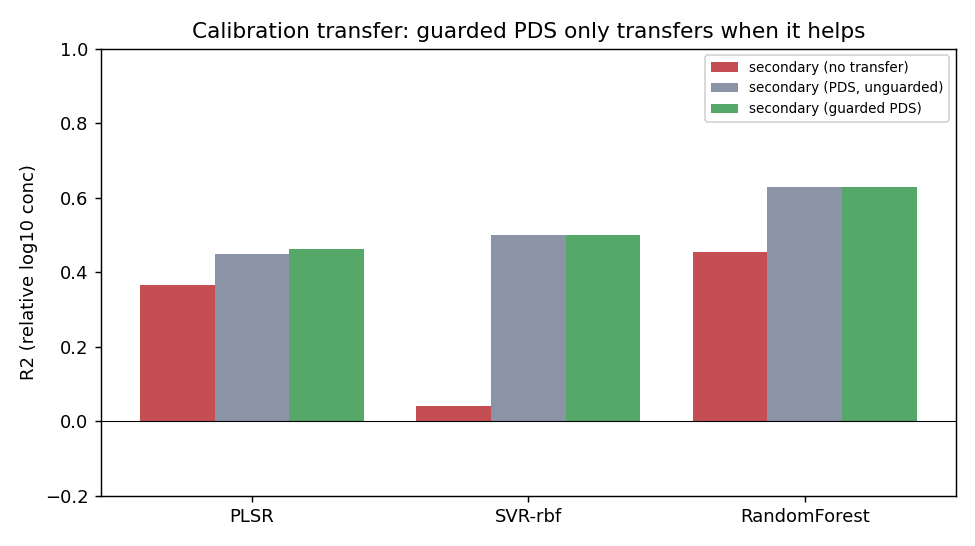
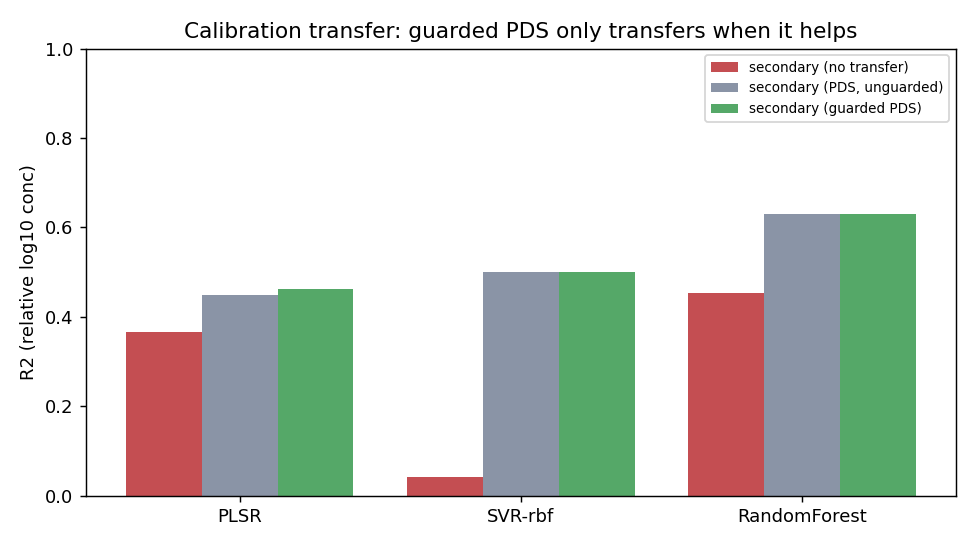
fix(plots): stop quant ensemble label overlap and drop empty negative axis
- quantification_r2.png: long Ensemble(PLSR+SVR+RF+kNN) tick collided with
  SVR-rbf; show Ensemble (full composition in the title), rotate 30deg, widen
- calibration_transfer.png: only extend the y-axis below zero when a bar is
  actually negative; all values are positive now, so start at 0

diff --git a/scripts/run_quantification.py b/scripts/run_quantification.py
@@ -194,15 +194,19 @@ def main():
 
     best = df.iloc[0]["model"]
 
-    # R2 bar chart
-    fig, ax = plt.subplots(figsize=(7, 4))
-    ax.bar(df["model"], df["R2"].clip(lower=0), color="#55A868")
+    # R2 bar chart. Shorten the verbose ensemble name so it does not collide with
+    # the neighbouring tick (full composition lives in the title note + the table).
+    labels = ["Ensemble" if m.startswith("Ensemble") else m for m in df["model"]]
+    fig, ax = plt.subplots(figsize=(8.5, 4.4))
+    ax.bar(range(len(df)), df["R2"].clip(lower=0), color="#55A868")
     ax.set_ylabel("R^2 (CV, relative log10 concentration)")
     ax.set_ylim(0, 1)
-    ax.set_title("Polystyrene quantification: algorithm comparison")
+    ax.set_title("Polystyrene quantification: algorithm comparison\n"
+                 "(Ensemble = CV-weighted PLSR+SVR+RF+kNN)", fontsize=11)
     for i, v in enumerate(df["R2"]):
         ax.text(i, max(v, 0) + 0.01, f"{v:.2f}", ha="center", fontsize=9)
-    plt.xticks(rotation=20)
+    ax.set_xticks(range(len(df)))
+    ax.set_xticklabels(labels, rotation=30, ha="right")
     fig.tight_layout()
     fig.savefig(os.path.join(PLOTS_DIR, "quantification_r2.png"), dpi=130)
 

diff --git a/scripts/run_calibration_transfer.py b/scripts/run_calibration_transfer.py
@@ -180,9 +180,15 @@ def main():
            color="#55A868")
     ax.set_xticks(x); ax.set_xticklabels(df["model"])
     ax.set_ylabel("R2 (relative log10 conc)")
-    ax.set_ylim(min(-0.2, df["r2_secondary_pds"].min()), 1)
+    # Only extend the axis below zero if some bar is actually negative (unguarded
+    # PDS can hurt); when every value is positive, start at 0 - no empty negative band.
+    lo = min(0.0, df[["r2_secondary_no_transfer", "r2_secondary_pds",
+                      "r2_secondary_guarded"]].to_numpy().min())
+    ax.set_ylim(lo - 0.02 if lo < 0 else 0.0, 1)
     ax.set_title("Calibration transfer: guarded PDS only transfers when it helps")
-    ax.axhline(0, color="k", lw=0.6); ax.legend(fontsize=7.5)
+    if lo < 0:
+        ax.axhline(0, color="k", lw=0.6)
+    ax.legend(fontsize=7.5)
     fig.tight_layout()
     fig.savefig(os.path.join(PLOTS_DIR, "calibration_transfer.png"), dpi=130)
     print("Saved benchmarks/plots/calibration_transfer.png")
